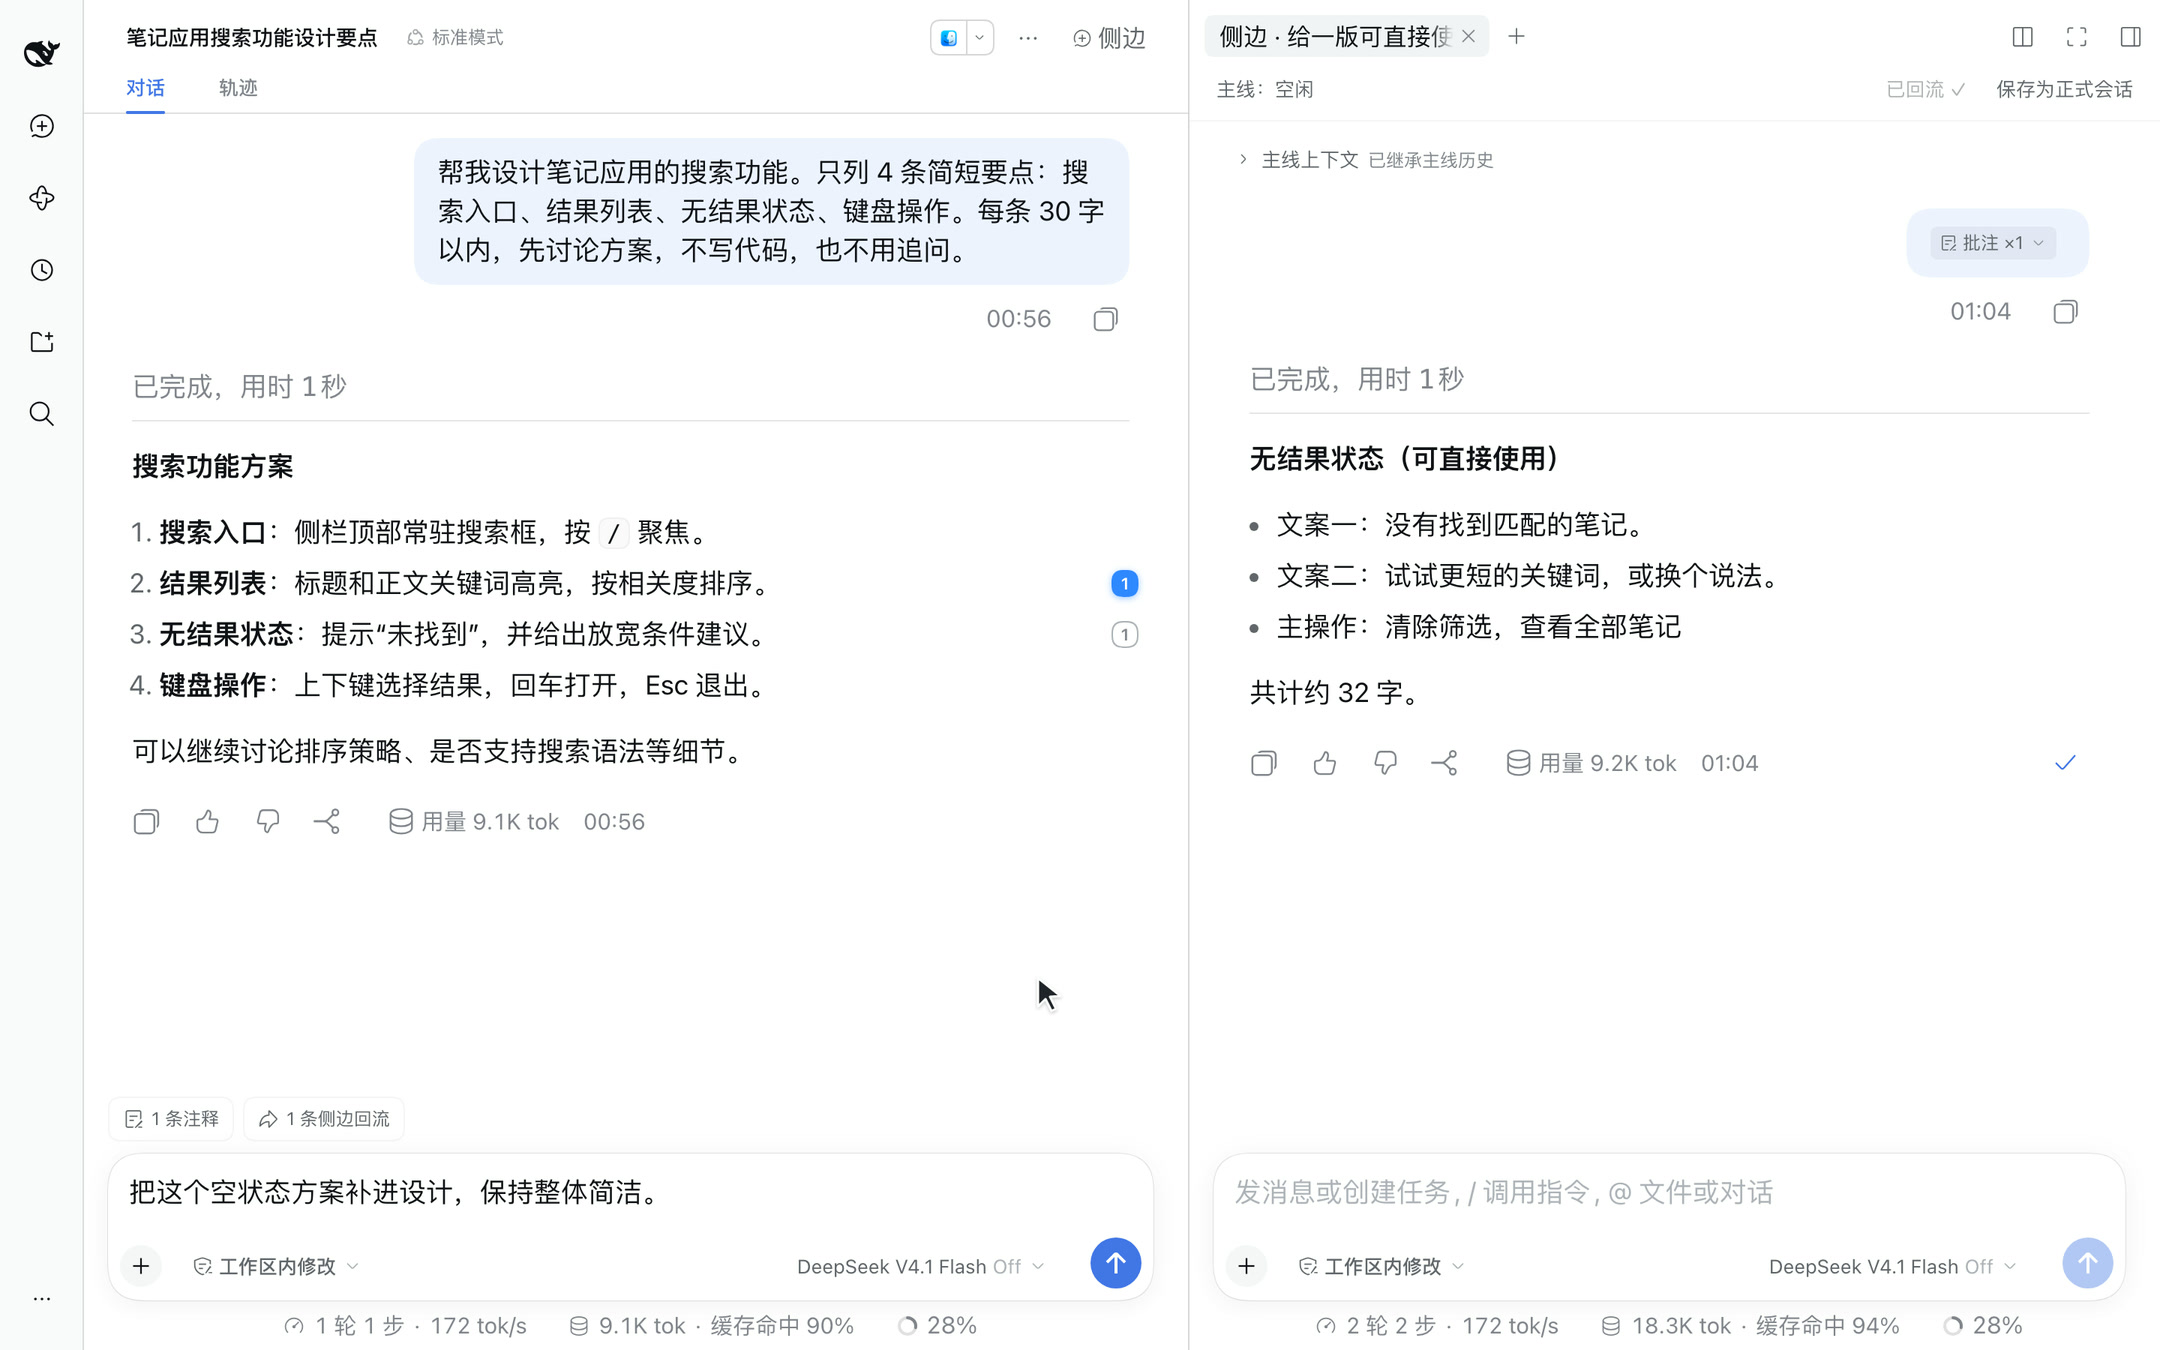
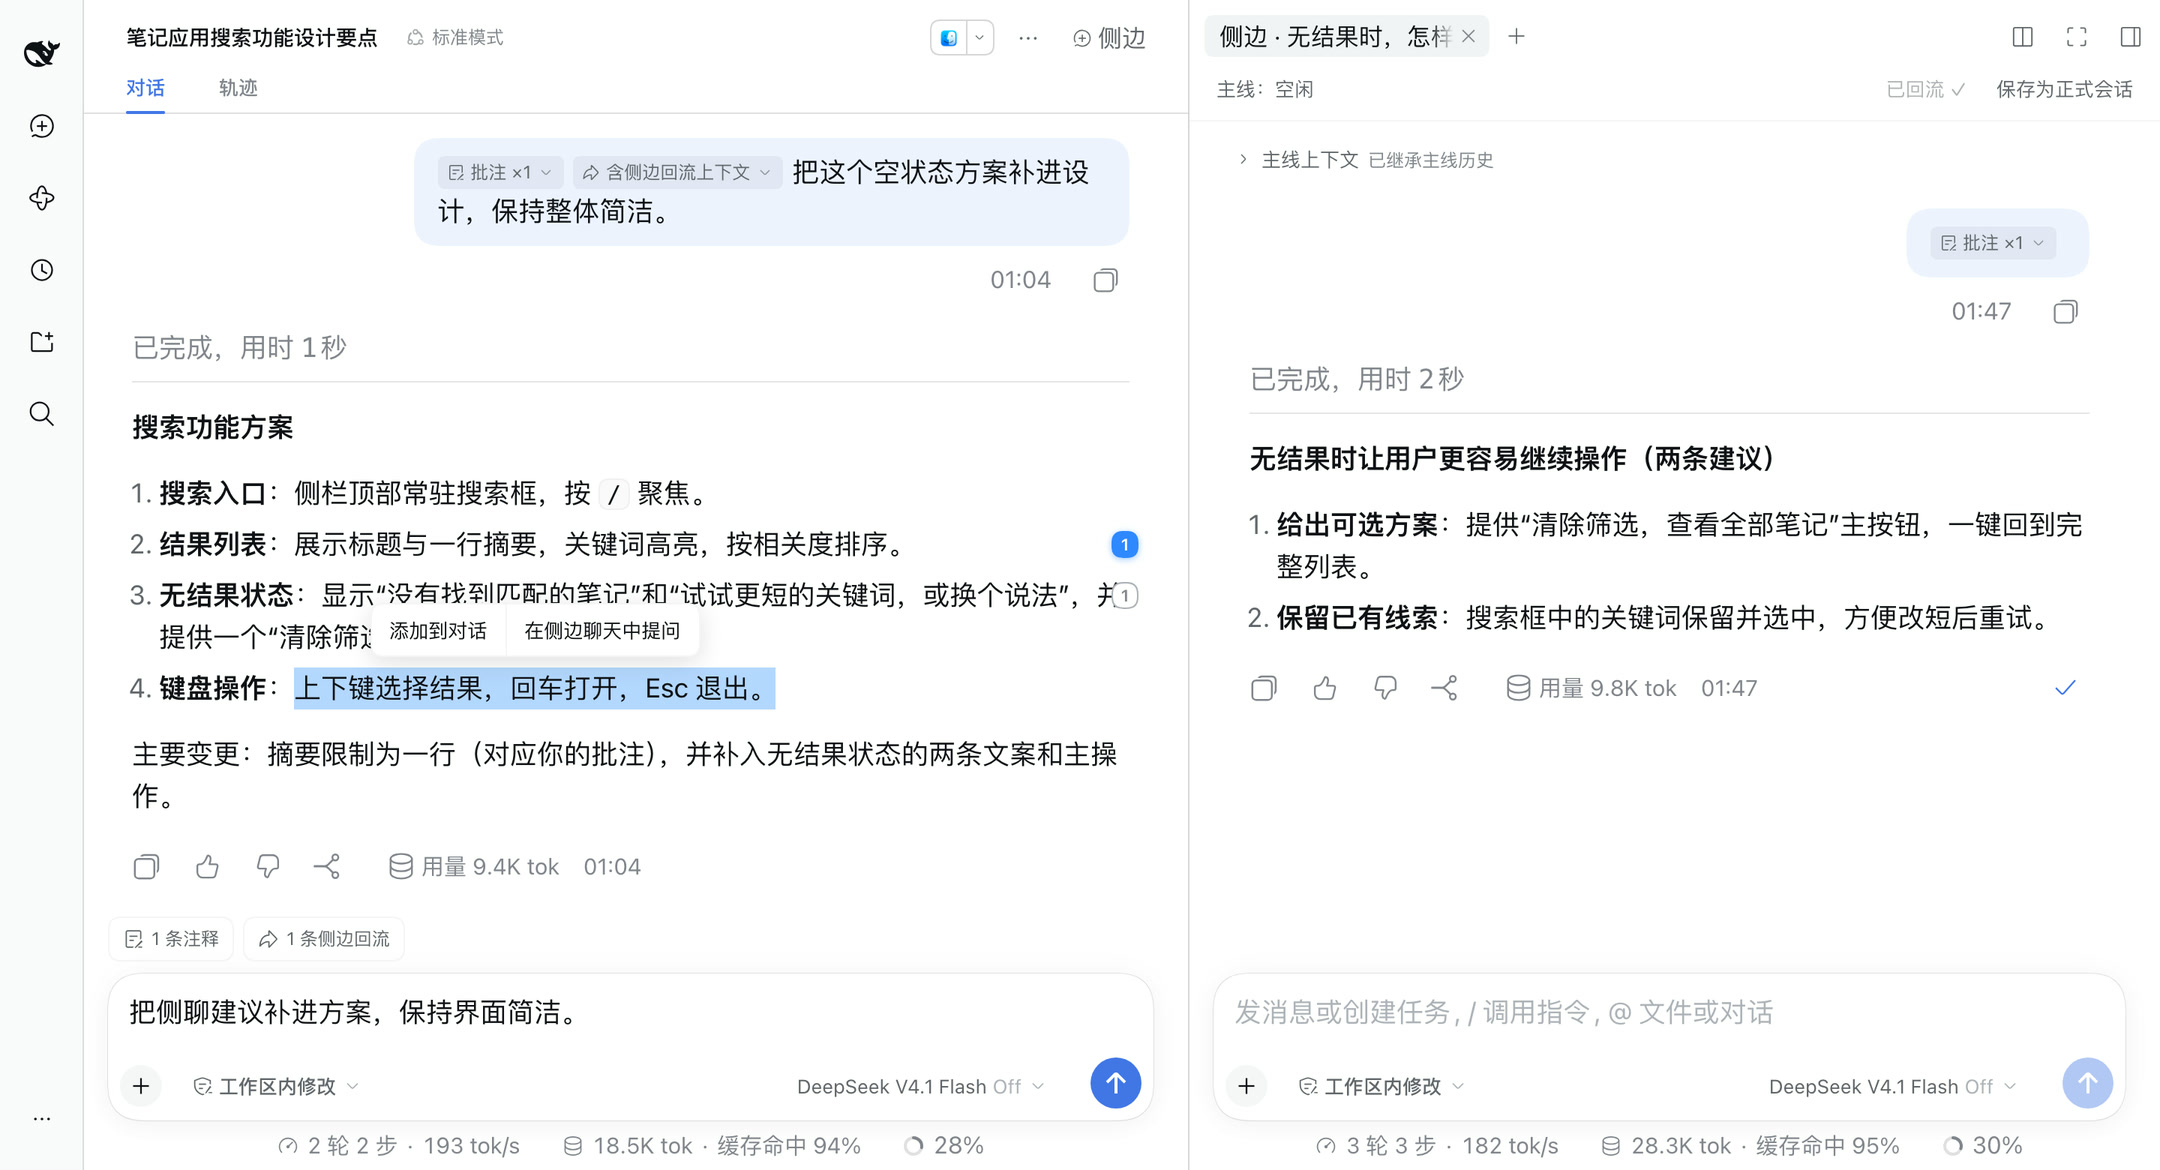
docs: 主图补充划选菜单与完整上下文状态 (#49)
现有首页主图没有展示划选后的两个核心入口。补拍真实 DeepSeek V4.1 Flash 会话，将「添加到对话 /
在侧边聊天中提问」菜单与侧聊回答、待发送的批注和回流标签、已发送消息内的上下文气泡同时呈现。

替换首页和商店共用的 `workflow.jpg`，同步中英文替代文本与素材说明。主图采用 1440 × 780 视口，导出为 2160 ×
1170；不修改产品代码、版本或既有录屏。

验证：
- 使用已发布 dsh-sidenote 0.7.2 和 DSH 0.2.1-rc.2，通过真实鼠标划选与原生交互拍摄；官方
`deepseek-flash` 调用返回 200 并完整结束。
- 检查划选文本、两个菜单入口、两类待发送标签和主侧会话的已发送气泡均可见。
- 图片解码、尺寸、中文与英文文档的本地链接、商店图集路径、`git diff --check` 均通过。
- GitHub 实际分支页面的中英文桌面预览通过，390 px 手机视口无横向溢出；商店当前索引仍引用相同主图地址。
- [本 PR
CI](https://github.com/g-yixuan/dsh-sidenote/actions/runs/40117973303) 的
`ci`、全部三组 `plugin-mount` 和 `host-compatibility` 均已通过。

![划选菜单与完整上下文状态](https://raw.githubusercontent.com/g-yixuan/dsh-sidenote/fe908efd9671d2f8c27480b59d122df3d2327065/docs/assets/workflow.jpg)

AI 辅助：Codex 操作真实界面补拍、导出图片、更新双语说明并验证页面展示。

diff --git a/docs/assets/README.md b/docs/assets/README.md
@@ -16,7 +16,7 @@ The recording starts with the real main-chat answer already visible. It then sho
 
 ## Assets / 文件
 
-- `workflow.jpg`: both conversations and a main draft with pending annotation and handback chips / 主侧对话与同时携带批注、回流的待发送草稿。
+- `workflow.jpg`: a follow-up capture showing the selection toolbar's two destinations, a real side-chat answer, pending annotation and handback chips, and context bubbles in sent messages / 补拍主图：同屏展示划选菜单的两种去向、真实侧聊回答、待发送的批注与回流标签，以及已发送消息中的上下文气泡。
 - `context-preview.jpg`: a compact preview with the selected passage, editable note, and horizontal context chips / 紧凑悬浮层中的原文、可编辑注解与横向标签。
 - `selection.jpg`: selected text and the two annotation destinations, taken from the recording / 从录屏提取的划选画面与两种批注去向。
 - `sidechat.jpg`: a real side-chat answer and the hovered reply-toolbar handback icon / 真实侧聊回答与悬停中的回流图标。
@@ -25,9 +25,9 @@ The recording starts with the real main-chat answer already visible. It then sho
 
 ## Capture and distribution / 录制与展示
 
-The real interface uses the host's **light theme**, **18 px** conversation font, and a **1440 × 900** viewport. Stills are captured at 2× pixel density and exported at 2160 × 1350; the selection still is a native 1440 × 900 recording frame. MP4 is 1440 × 900 at 30 fps; GIF is 1120 × 700 at 12 fps. Encoding preserves the browser's frame timing without speeding up responses. A small pointer overlay follows actual mouse events; product controls and model replies are not redrawn or substituted.
+The real interface uses the host's **light theme** and **18 px** conversation font. The hero uses a **1440 × 780** viewport and is exported at 2160 × 1170 so the selection menu and both composers fit together. Other stills use a **1440 × 900** viewport, captured at 2× pixel density and exported at 2160 × 1350; the selection still is a native 1440 × 900 recording frame. MP4 is 1440 × 900 at 30 fps; GIF is 1120 × 700 at 12 fps. Encoding preserves the browser's frame timing without speeding up responses. A small pointer overlay follows actual mouse events in the recording; product controls and model replies are not redrawn or substituted.
 
-真实界面使用宿主的**浅色主题**、**18 px** 会话字号和 **1440 × 900** 视口。静态截图按 2 倍像素密度采集后导出为 2160 × 1350；划选截图直接取自 1440 × 900 的录屏帧。MP4 为 1440 × 900 / 30 fps，GIF 为 1120 × 700 / 12 fps，均按浏览器帧时间编码，没有加速模型响应。仅添加跟随真实鼠标事件的小光标辅助层，没有重绘产品控件或替换模型回答。
+真实界面使用宿主的**浅色主题**和 **18 px** 会话字号。主图以 **1440 × 780** 视口补拍，导出为 2160 × 1170，让划选菜单和两侧输入框完整同屏。其余静态截图使用 **1440 × 900** 视口，按 2 倍像素密度采集后导出为 2160 × 1350；划选截图直接取自 1440 × 900 的录屏帧。MP4 为 1440 × 900 / 30 fps，GIF 为 1120 × 700 / 12 fps，均按浏览器帧时间编码，没有加速模型响应。录屏中仅添加跟随真实鼠标事件的小光标辅助层，没有重绘产品控件或替换模型回答。
 
 [`screenshots.json`](../../screenshots.json) declares the storefront gallery. The [catalog's screenshot convention](https://github.com/awesome-dsh-plugin/awesome-dsh-plugin/blob/main/contributing.md#screenshots--截图optional-recommended--可选推荐) resolves those paths from this repository, and the next catalog build refreshes the gallery. Existing screenshot paths remain available for cached catalogs.
 

diff --git a/README_EN.md b/README_EN.md
@@ -23,7 +23,7 @@
   <a href="LICENSE"><img src="https://img.shields.io/badge/license-MIT-60708E" alt="MIT license"></a>
 </p>
 
-![Current light interface: main conversation on the left, focused exploration on the right, and a finding returned to the main composer](docs/assets/workflow.jpg)
+![Selected text offers Add to conversation or Ask in side chat, alongside a side-chat answer, pending annotation and handback chips, and context bubbles in sent messages](docs/assets/workflow.jpg)
 
 <p align="center"><sub>dsh-sidenote 0.7.2 · DSH 0.2.1-rc.2 · DeepSeek V4.1 Flash · Recorded live</sub></p>
 

diff --git a/README.md b/README.md
@@ -23,7 +23,7 @@
   <a href="LICENSE"><img src="https://img.shields.io/badge/license-MIT-60708E" alt="MIT license"></a>
 </p>
 
-![新版浅色界面：左侧保留主对话，右侧深入讨论，结论回到主输入框](docs/assets/workflow.jpg)
+![划选文字后可添加到对话或在侧边提问；同屏展示侧聊回答、待发送的批注与回流标签，以及已发送消息中的上下文气泡](docs/assets/workflow.jpg)
 
 <p align="center"><sub>dsh-sidenote 0.7.2 · DSH 0.2.1-rc.2 · DeepSeek V4.1 Flash · 真实交互录制</sub></p>
 
